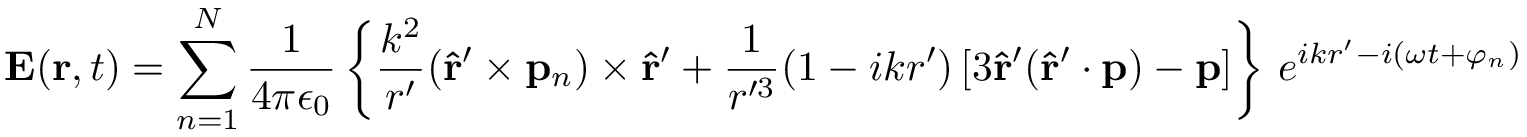
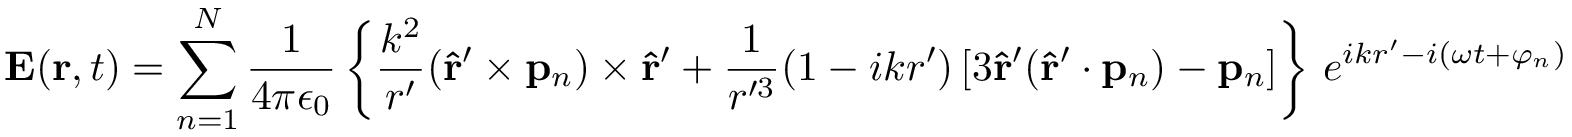
readme up

Changed region(s): [[0.0, 0.1168, 1.0, 0.9635], [0.1231, 0.0584, 0.1539, 0.2044], [0.6156, 0.6423, 0.6464, 0.6715]]

diff --git a/README.md b/README.md
@@ -3,29 +3,40 @@
 Electric dipole radiation in near and far field
 ===============================================
 
-The electric and the magnetic field of a single radiating dipole in vacuum centered at the origin (r=0) are given by
+The electric and the magnetic field of a set of non-interacting radiating
+electric dipoles in vacuum are given by
 
-![](https://upload.wikimedia.org/math/7/b/4/7b487096b3b9661fd46a5768a8a36407.png)
-![](https://upload.wikimedia.org/math/0/5/4/054a31e26998ea459e680f2788fbf692.png)
+![](https://github.com/thisch/pydipole/raw/master/doc/equations-0.png)
+![](https://github.com/thisch/pydipole/raw/master/doc/equations-2.png)
+
+where `p\_n` are the dipole moments and `varphi\_n` are the temporal phases of
+the oscillating dipoles. The quantities `r'` and `rvechat'` depend on the
+positions of the dipoles `a\_n`,
+
+![](https://github.com/thisch/pydipole/raw/master/doc/equations-1.png)
+
 
 The function ``dipole.field.dipole_general`` evaluates the electric and/or
 magnetic field of a set of oscillating dipoles at specified observation
-points. If only the far field is of interest, the optimized function ``dipole.field.dipole_e_ff`` can be used.
-In the far field limit the fields are given by 
+points. If only the far field is of interest, the optimized function
+``dipole.field.dipole_e_ff`` can be used.  In the far field limit the fields
+are given by
 
-![](https://upload.wikimedia.org/math/1/b/a/1ba94136987feca2fdd4067a9a3cd20f.png)
-![](https://upload.wikimedia.org/math/0/6/d/06d634484563b8c4c576ee1cca59fb46.png)
+![](https://github.com/thisch/pydipole/raw/master/doc/equations-3.png)
+![](https://github.com/thisch/pydipole/raw/master/doc/equations-4.png)
 
-See the unit tests in ``dipole/tests/*.py`` for examples on how to use the mentioned functions.
+See the examples in `examples/\*.py` and the unit tests in `dipole/tests/\*.py` for examples on how to use the mentioned functions.
 
 ##API
 ```
-def dipole_general(np.ndarray[double_t, ndim=3] r,
-                   np.ndarray[double_t, ndim=2] P,
-                   np.ndarray[double_t, ndim=2] R,
+def dipole_general(np.ndarray[double_t, ndim=3] r, # observation points
+                   np.ndarray[double_t, ndim=2] P, # dipole moments
+                   np.ndarray[double_t, ndim=2] R, # dipole positions
                    np.ndarray[double_t, ndim=1] phases,
-                   double_t k, bool poyntingmean=False,
-                   bool poyntingstatic=False, double_t t=0):
+                   double_t k, # wave number
+                   bool poyntingmean=False, # TODO deprecate this kwarg
+                   bool poyntingstatic=False, # TODO deprecate this kwarg
+                   double_t t=0):
     ...
 
 def dipole_e_ff(np.ndarray[double_t, ndim=3] r,
